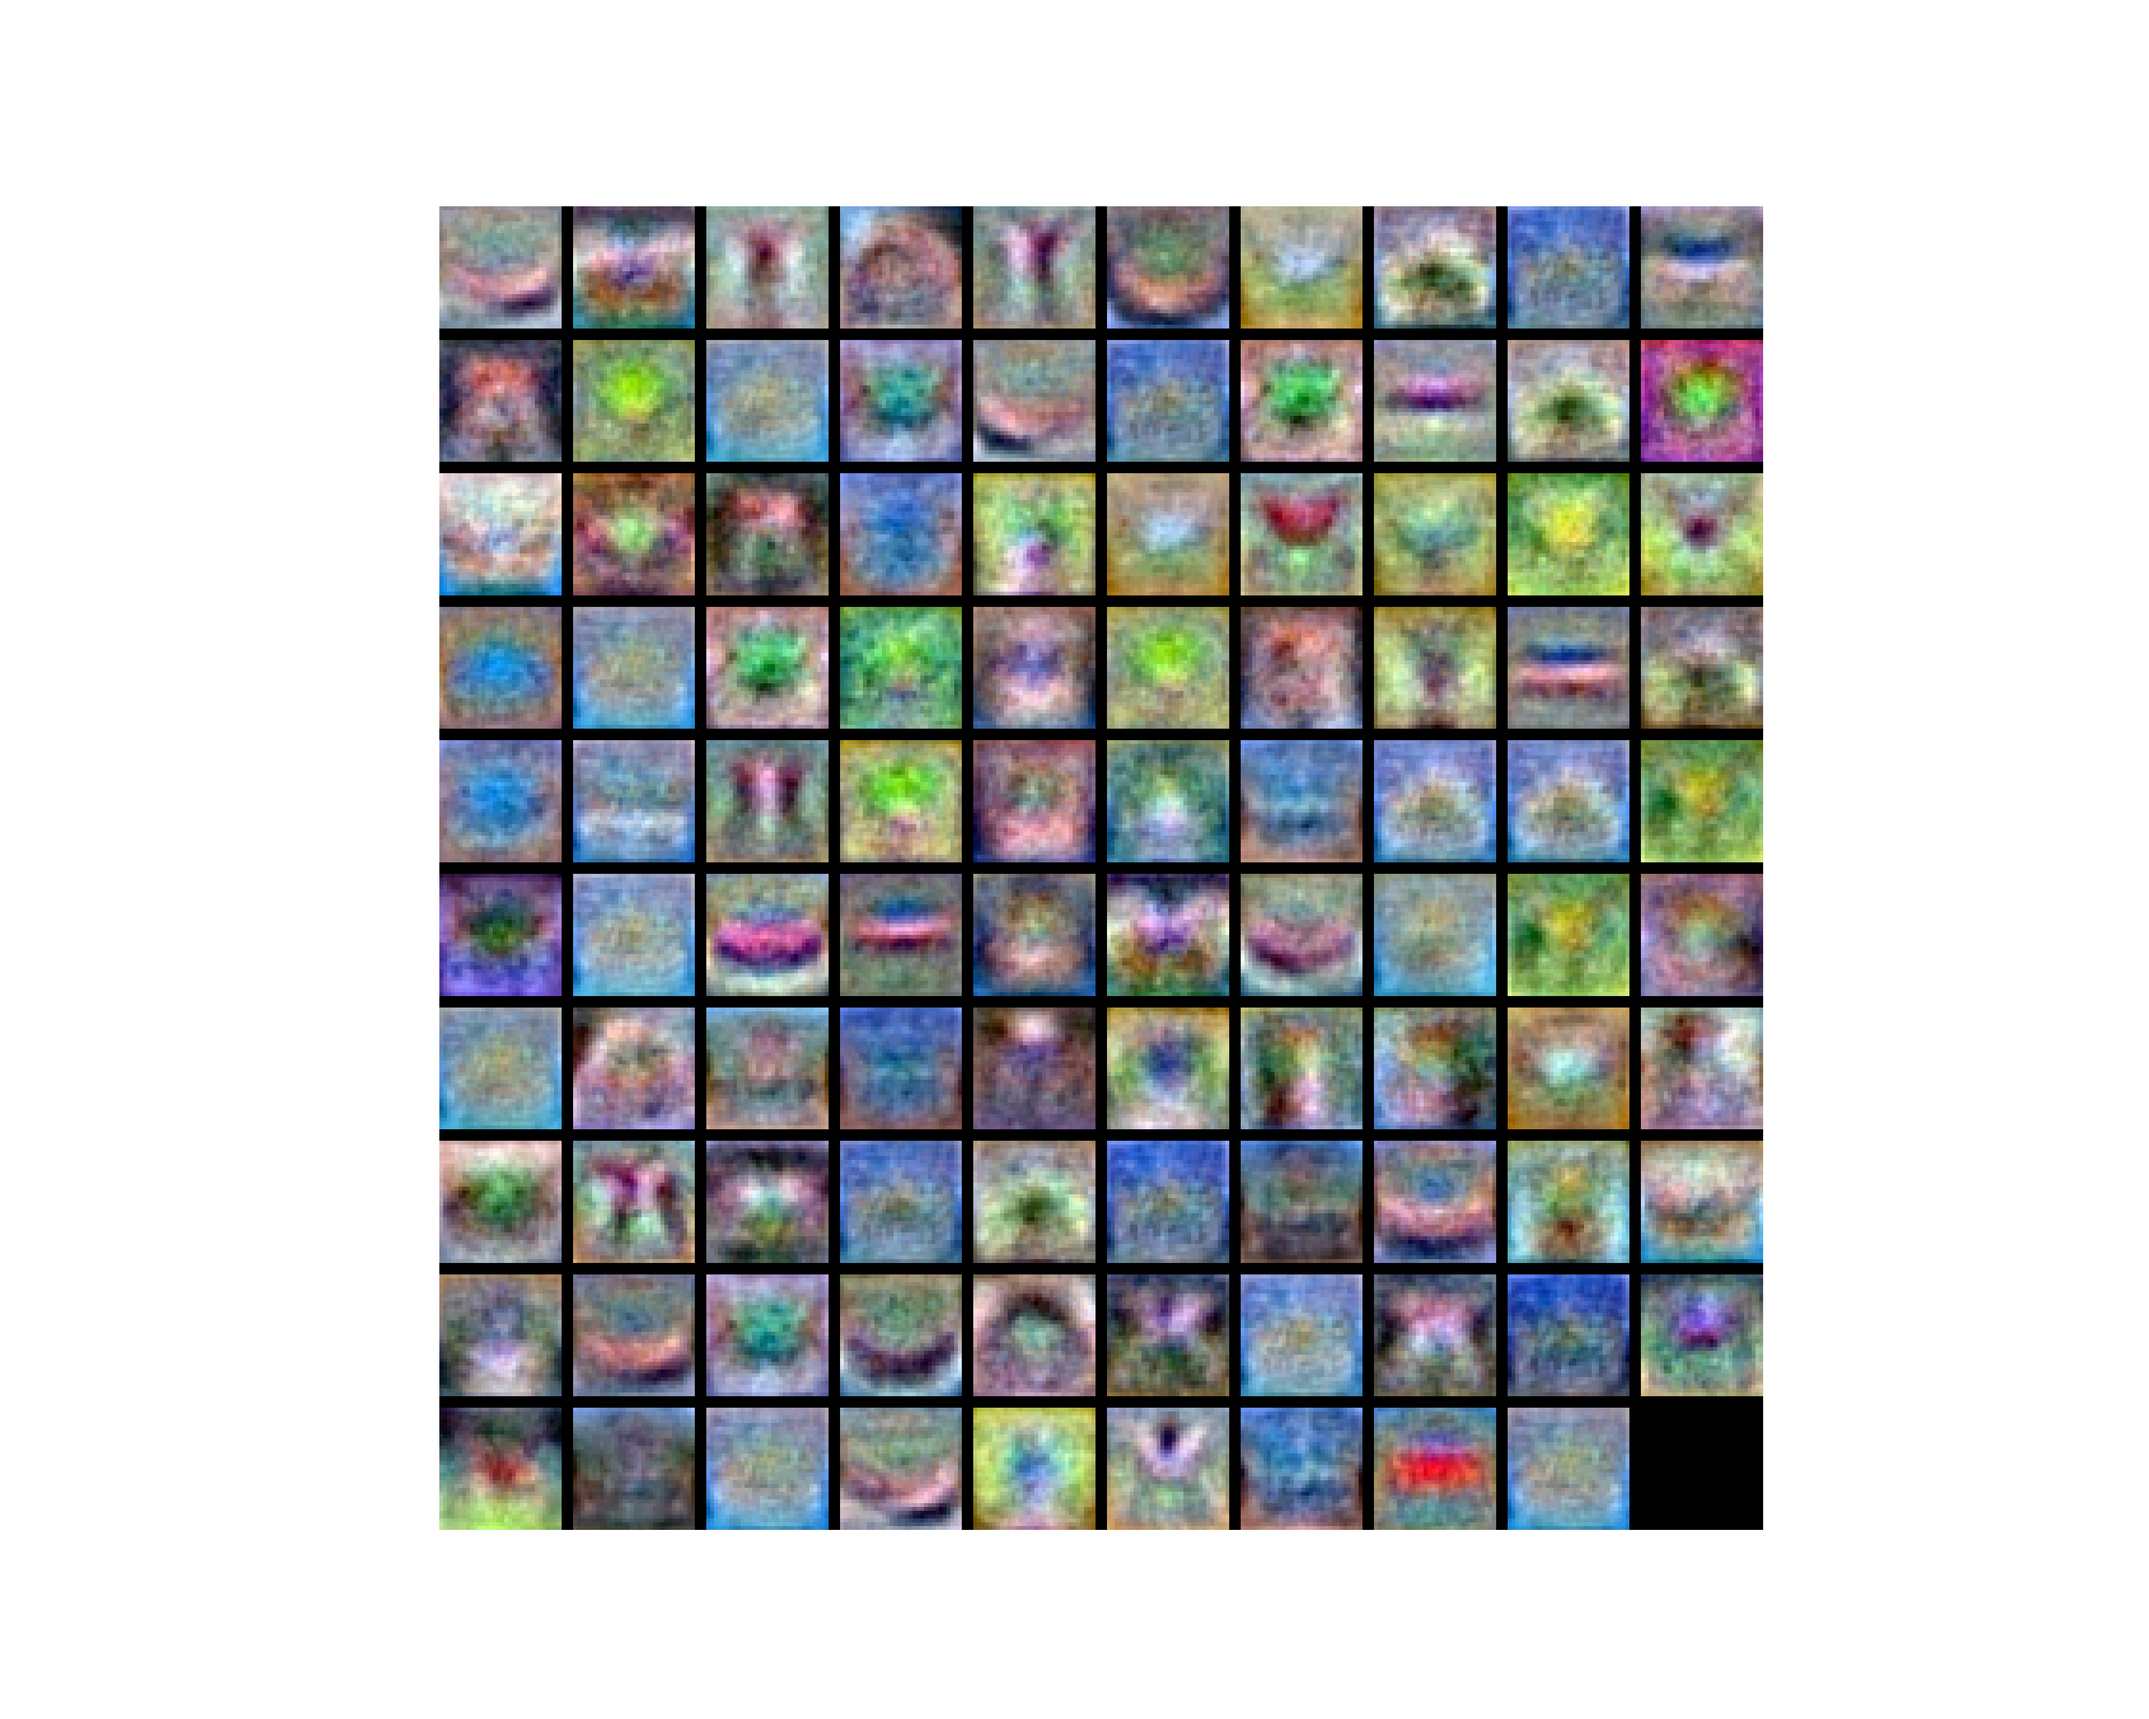
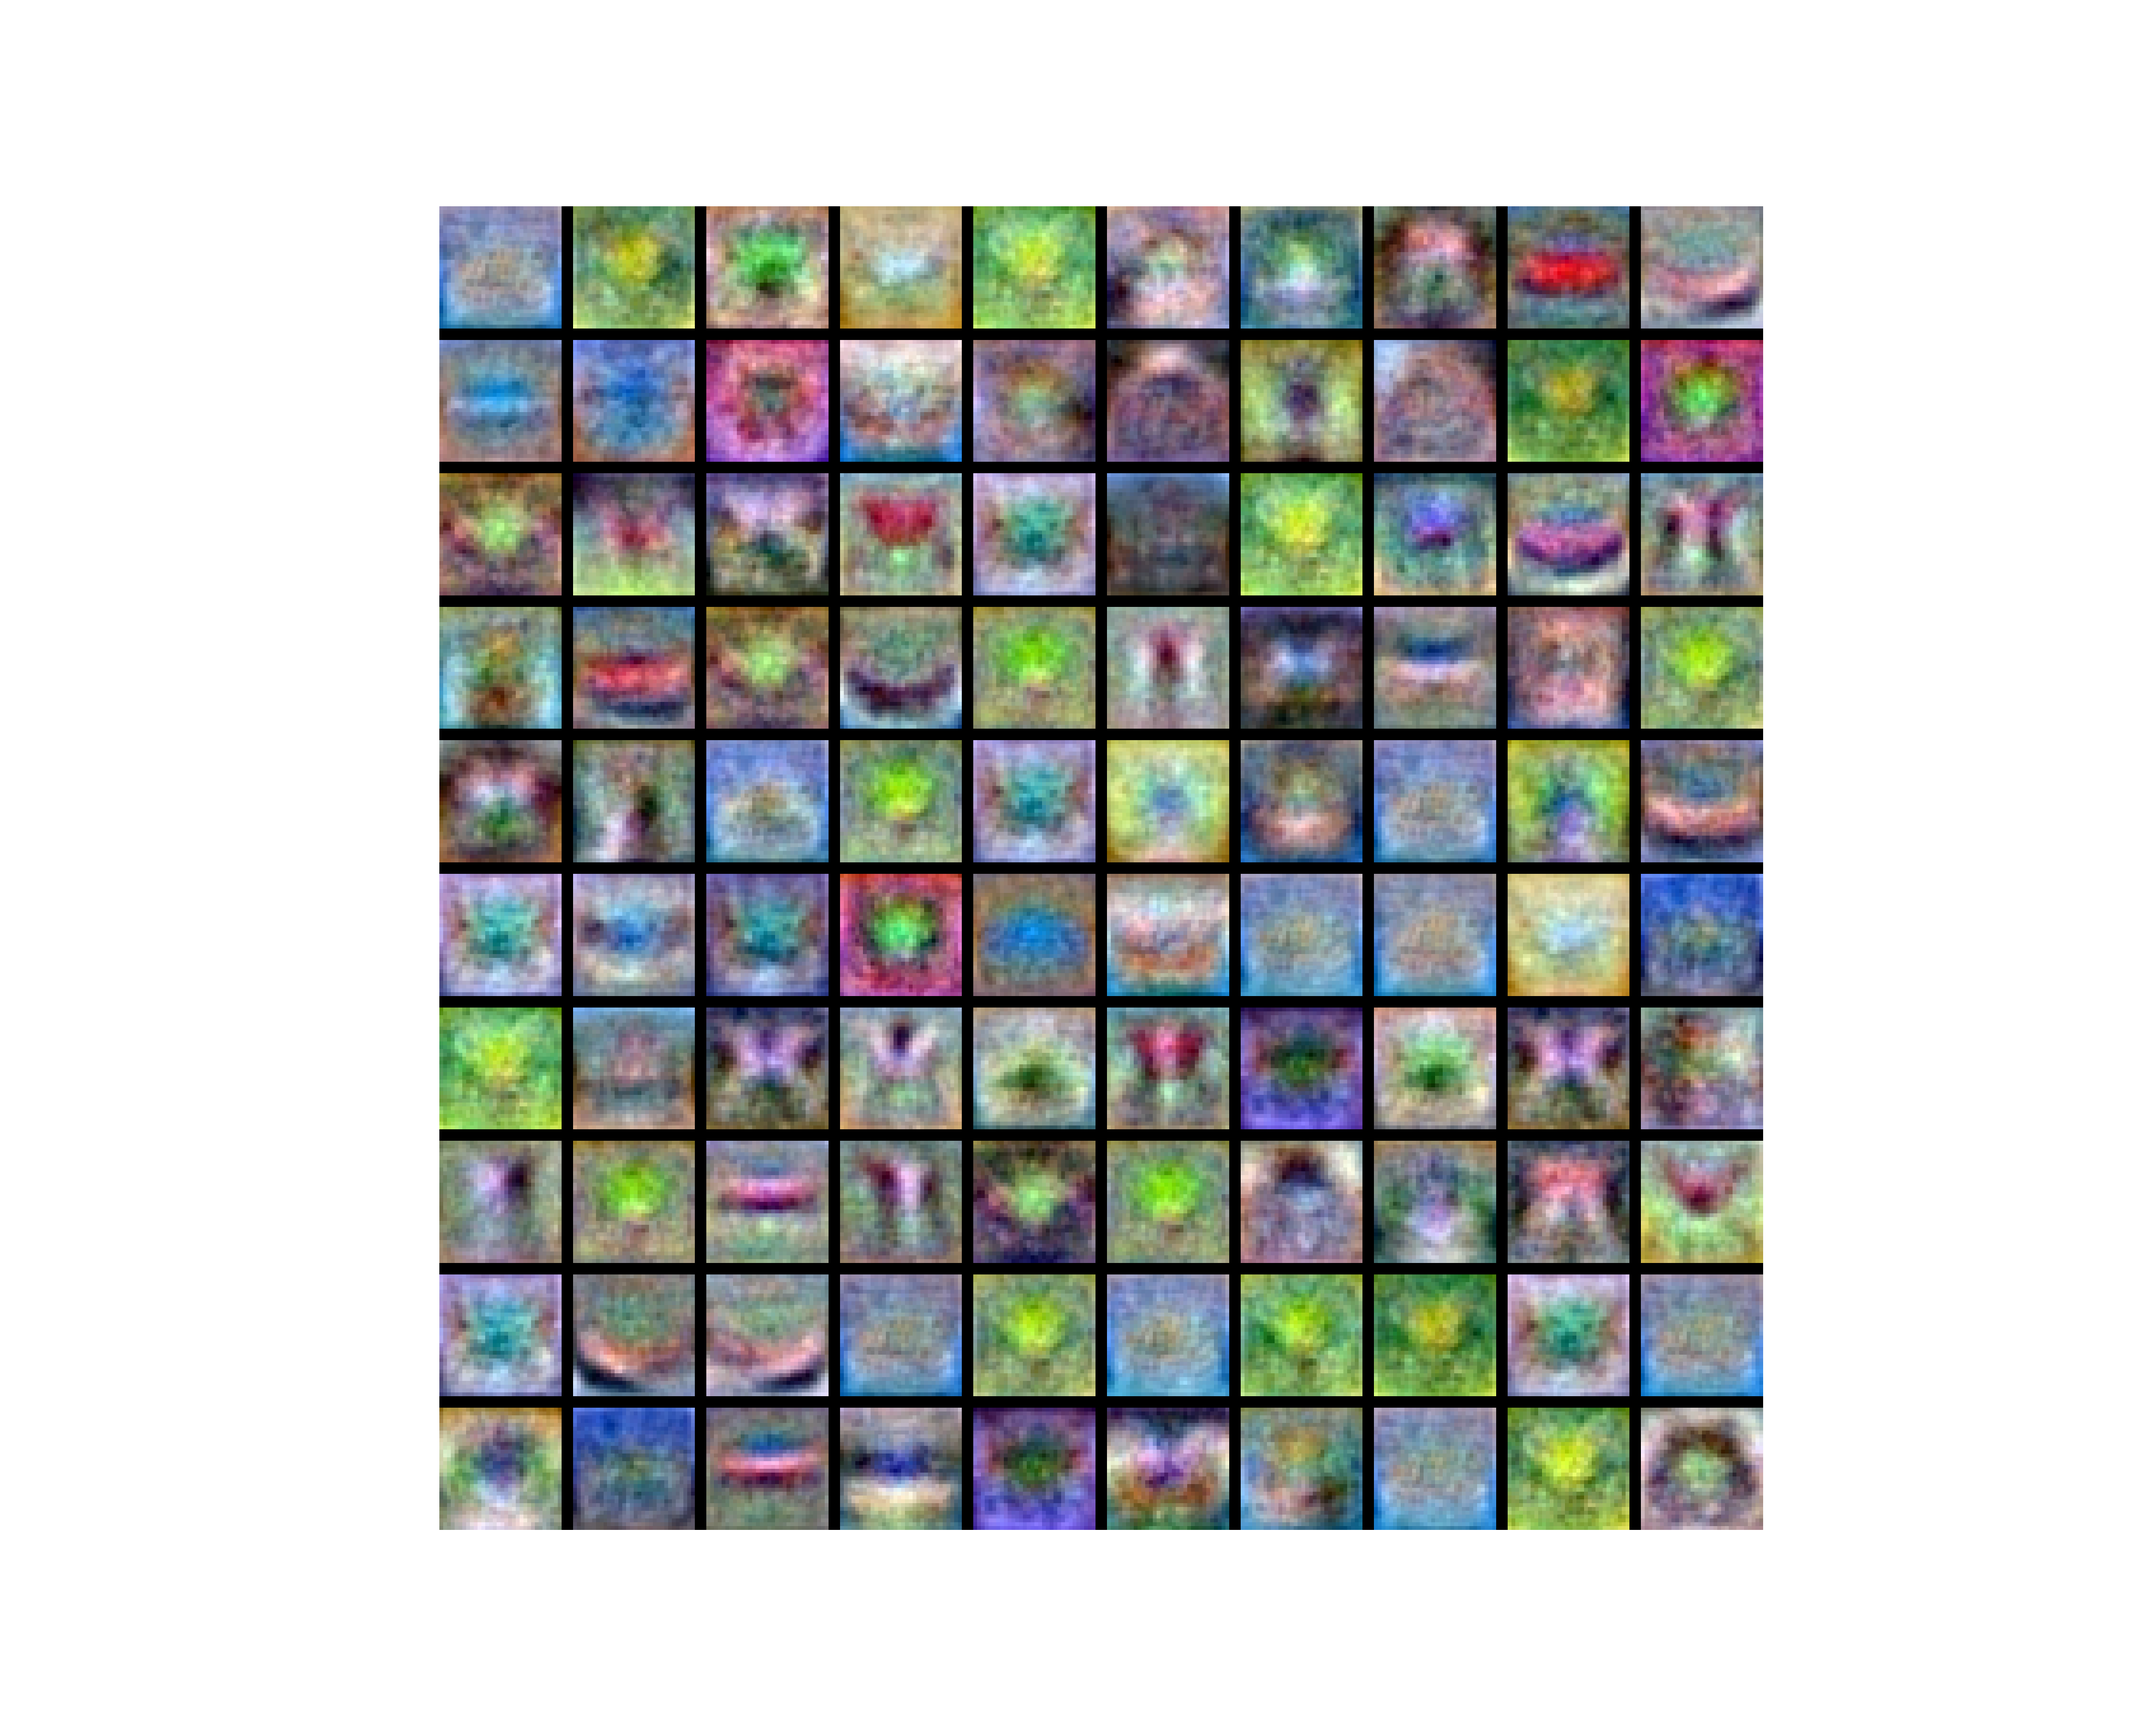
weight visualizations

diff --git a/display_funcs.py b/display_funcs.py
@@ -1,9 +1,9 @@
 import matplotlib.pyplot as plt
 from src.vis_utils import visualize_grid
 
-def save_net_weights(net, ids, name):
+def save_net_weights(net, name):
     ext = '.png'
-    W1 = net.params['W1'][:,ids]
+    W1 = net.params['W1']
     W1 = W1.reshape(3, 32, 32, -1).transpose(3, 1, 2, 0)
     plt.imshow(visualize_grid(W1, padding=3).astype('uint8'))
     plt.gca().axis('off')

diff --git a/main.py b/main.py
@@ -58,6 +58,5 @@ pass
 ########################################################################################
 # plot stuff
 plot_train_loss(solver1, 'train_accuracy_plot')
-ids = range(1, model1.params['W1'].shape[1])
-save_net_weights(model1, ids, 'model1')
+save_net_weights(model1, 'model1')
 ########################################################################################
